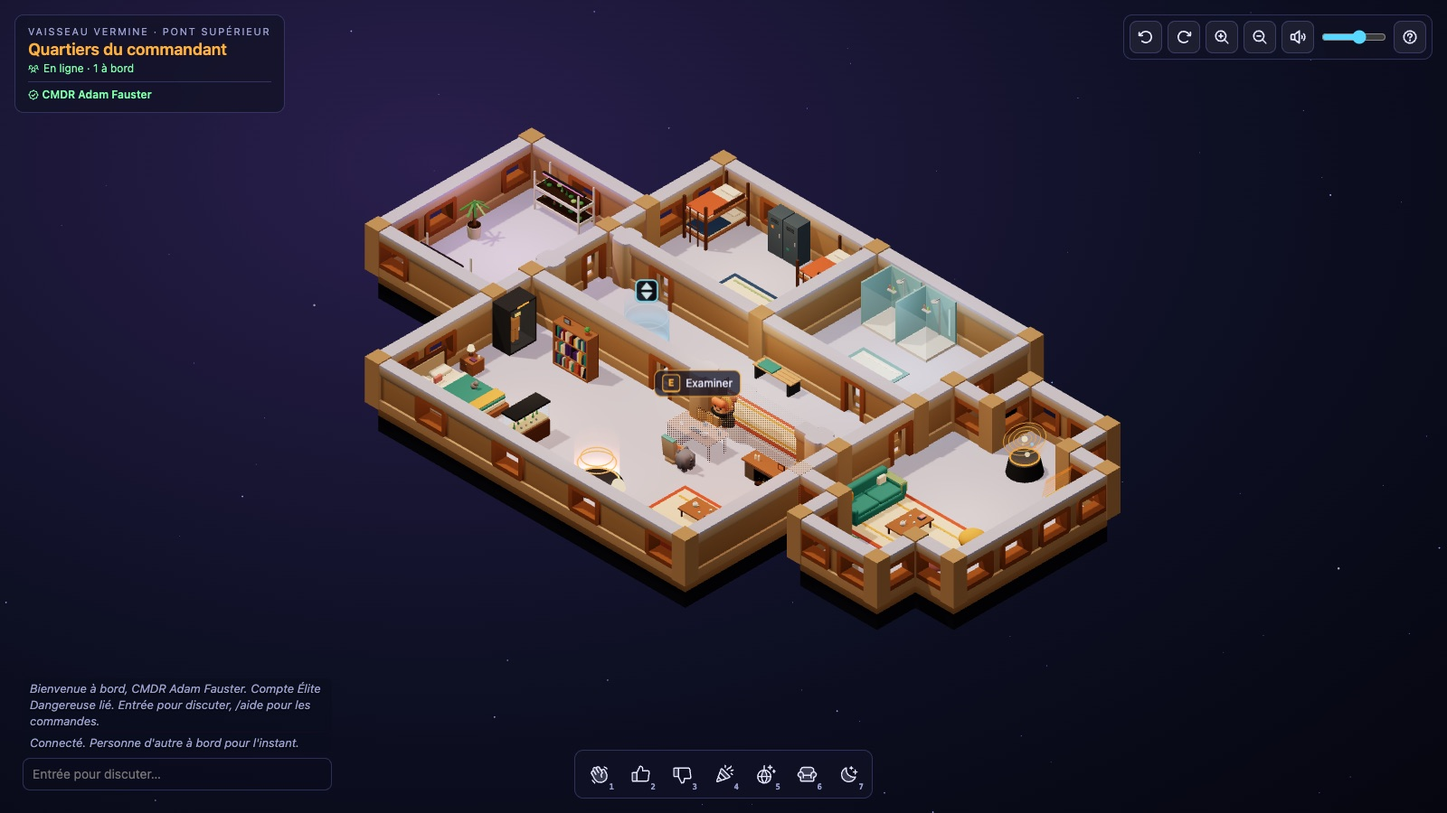
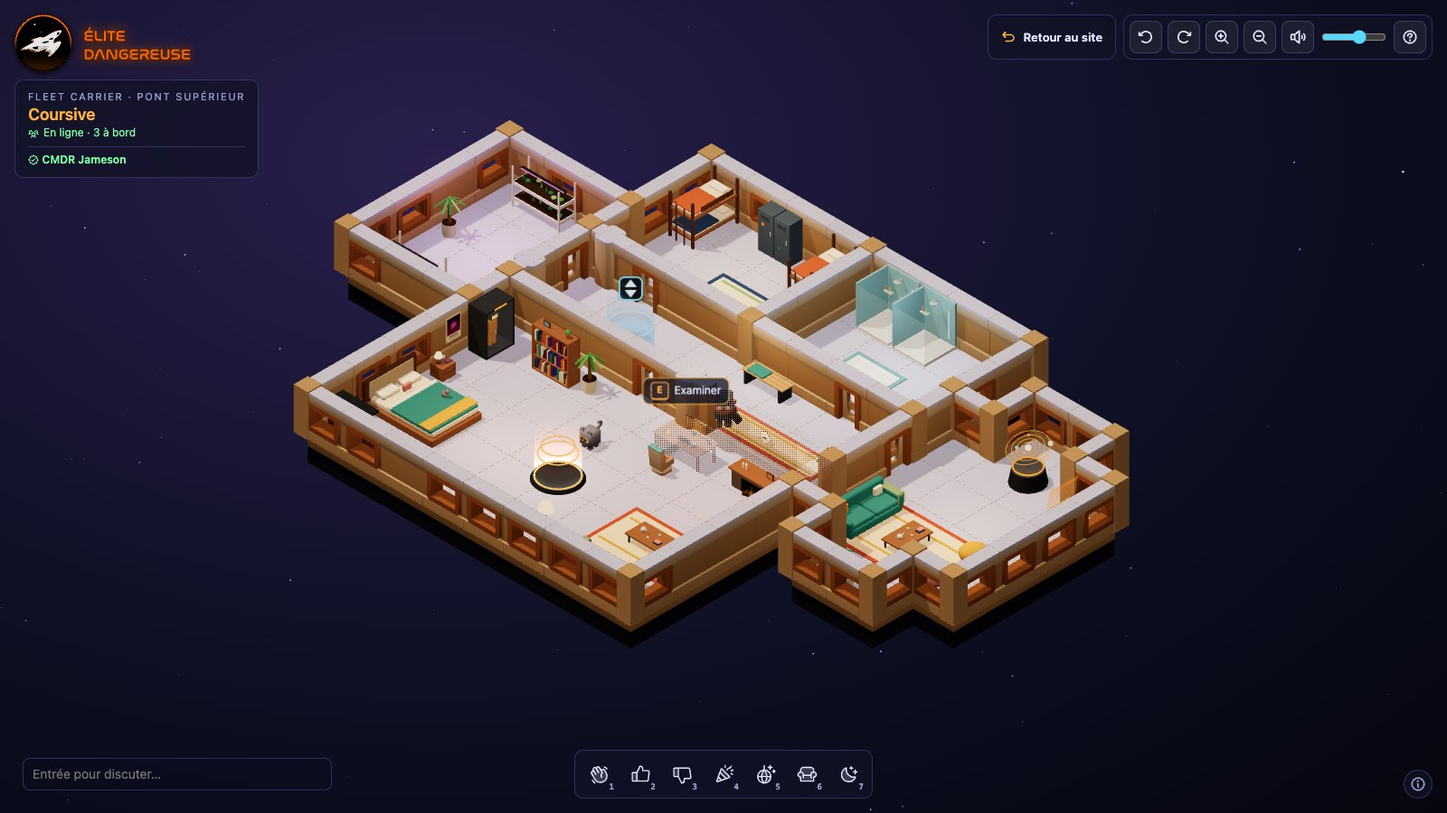
README : quartiers personnalisables, visites, endpoint des quartiers
Nouvelle section « Quartiers personnalisables » (instanciation, mode aménagement et ses
commandes, catalogue, règles de pose, enregistrement, invitations et visites), avec deux
captures ; les commandes, le fonctionnement des comptes (endpoint des quartiers, table à
jouer en prod, VITE_ED_CABIN_URL), les choix techniques, l'architecture et les limites
connues suivent. Les captures des quartiers et du pont supérieur sont refaites : la cabine
a grandi, et le HUD n'est plus celui du « Vaisseau Vermine ». L'aide du jeu cite /inviter.

diff --git a/index.html b/index.html
@@ -53,7 +53,7 @@
           <div><kbd>M</kbd> son · <kbd>H</kbd> cacher l'aide</div>
           <div>Holo-Me (apparence) : quartiers du commandant, pont supérieur</div>
           <div><kbd>B</kbd> aménager ses quartiers (CMDR connectés au site)</div>
-          <div class="muted">Chat : <code>/nom CMDR Pseudo</code>, <code>/perso</code> (au hasard), <code>/aide</code></div>
+          <div class="muted">Chat : <code>/nom CMDR Pseudo</code>, <code>/perso</code> (au hasard), <code>/inviter CMDR Nom</code>, <code>/aide</code></div>
         </div>
       </div>
 

diff --git a/README.md b/README.md
@@ -2,7 +2,7 @@
 
 <p align="center">
   <strong>Un vaisseau spatial isométrique et multijoueur, jouable directement dans le navigateur.</strong><br>
-  Trois ponts à explorer entre CMDR, un Holo-Me pour changer d'apparence, et Comète, le chat du bord.
+  Trois ponts à explorer entre CMDR, des quartiers à aménager et où recevoir, un Holo-Me pour changer d'apparence, et Comète, le chat du bord.
 </p>
 
 <p align="center">
@@ -24,6 +24,7 @@
 - [En bref](#en-bref)
 - [Le vaisseau](#le-vaisseau)
 - [Holo-Me (garde-robe)](#holo-me-garde-robe)
+- [Quartiers personnalisables](#quartiers-personnalisables)
 - [Mobilier fait main](#mobilier-fait-main)
 - [Lancer en local](#lancer-en-local)
 - [Commandes](#commandes)
@@ -42,6 +43,7 @@ Mini Interior est un POC : un vaisseau sur trois ponts, vu de dessus en isométr
 - **Multijoueur** : chaque onglet est un membre d'équipage, avec positions, emotes et chat en bulles, synchronisés par un petit relais socket.io.
 - **Comptes Élite Dangereuse** : un CMDR connecté à [elitedangereuse.fr](https://elitedangereuse.fr) arrive sous son nom, avec un badge « vérifié ».
 - **Holo-Me** : humain, combinaison spatiale, alien, robot ou créature, et chaque changement s'applique en direct.
+- **Quartiers personnalisables** : chaque joueur a sa propre instance des quartiers du commandant. Un CMDR connecté les aménage (70 meubles et objets : lits, plantes, affiches, lampe à lave, tasse de Hutton Orbital…) et y invite qui il veut.
 - **Des dizaines de meubles animés** : bornes d'arcade jouables, hologrammes, bras robotisé qui soude, aquarium, cheminée…
 - **Son spatialisé** : pas, réacteur, bips des consoles, mélodies d'arcade, ronronnements.
 
@@ -52,13 +54,13 @@ Mini Interior est un POC : un vaisseau sur trois ponts, vu de dessus en isométr
 
 ## Le vaisseau
 
-Trois ponts, trois ambiances. Chaque pont repeint à sa façon la même palette du kit (coque et mobilier, cf. `themes` dans `src/assets.ts`), et a son propre éclairage (ciel, soleil, lumières qui vacillent) et son propre bruit de pas. Le pont principal est de loin le plus grand (~210 tuiles). La cale et le pont supérieur sont deux fois plus petits (~90 et ~100 tuiles), autour de l'ascenseur.
+Trois ponts, trois ambiances. Chaque pont repeint à sa façon la même palette du kit (coque et mobilier, cf. `themes` dans `src/assets.ts`), et a son propre éclairage (ciel, soleil, lumières qui vacillent) et son propre bruit de pas. Le pont principal est de loin le plus grand (~210 tuiles). La cale et le pont supérieur sont deux fois plus petits (~90 et ~110 tuiles), autour de l'ascenseur.
 
 On se réveille dans ses quartiers, sur le pont supérieur, à deux pas du Holo-Me.
 
 | Pont | Ambiance | Pièces |
 |---|---|---|
-| **Pont supérieur** · les quartiers | *cozy* : crème et bois miel, tissus, plantes, lumière chaude, pas feutrés | **quartiers du commandant** (grand lit, cheminée holographique, canapé, aquarium, bureau, bibliothèque, casier à combinaisons, **Holo-Me**), cabines d'équipage (lits superposés), douches, serre hydroponique, salon panoramique (carte du système), coursive |
+| **Pont supérieur** · les quartiers | *cozy* : crème et bois miel, tissus, plantes, lumière chaude, pas feutrés | **quartiers du commandant**, [aménagés par chaque CMDR](#quartiers-personnalisables) (au départ : grand lit, cheminée holographique, canapé, aquarium, bureau, bibliothèque, casier à combinaisons, **Holo-Me**), cabines d'équipage (lits superposés), douches, serre hydroponique, salon panoramique (carte du système), coursive |
 | **Pont principal** | la station d'origine, mobilier aux couleurs d'Elite | poste de pilotage (siège et HOTAS, scanner, panneaux holographiques, carte galactique), salle des machines (centrale, réacteur FSD, tuyères), **infirmerie** (lits médicaux, scanner corporel, quarantaine), **salle de sport**, **salon d'arcade** (trois bornes jouables), mess, coursive |
 | **Cale** | *brute* : acier noirci et rouillé, jaune de chantier, lumière sodium, néons qui grésillent | **atelier** (établis, poste de soudure, établi d'ingénieur, ferraille), **baie de réparation** (SRV Scarab sur pont élévateur, bras robotisé qui soude, AFMU), **raffinerie** (fusion, tapis roulant de minerai, cristaux, drones collecteurs, laser minier), soute, palier de l'ascenseur |
 
@@ -120,6 +122,38 @@ Les robots ont des pas plus lourds. Pour ajouter une espèce ou un modèle, il s
 
 **Comète** vit dans les quartiers (pont supérieur), près de son panier au coin du feu. Il vient se frotter aux jambes du joueur, fait sa toilette, pique des sprints, miaule, ronronne quand on le caresse (`E`) et danse quand on danse à côté de lui. S'il se retrouve coincé contre un meuble, il renonce à son trajet et repart ailleurs.
 
+## Quartiers personnalisables
+
+<p align="center">
+  <img src="docs/images/amenagement.jpg" alt="Le mode aménagement : vue plongeante sur les quartiers, catalogue des objets à droite, une affiche en cours de pose sur un mur" width="100%">
+</p>
+
+Les quartiers du commandant (40 tuiles, là où se trouve le Holo-Me) sont **instanciés** : chaque joueur a les siens, meublés selon son aménagement, et n'y voit que ceux qui s'y trouvent avec lui. Hors des quartiers, rien ne change : on croise tout l'équipage dans la coursive.
+
+Un CMDR connecté au site les **aménage** : dans ses quartiers, `B` ou « Aménager » ouvre le mode aménagement. La caméra passe en vue plongeante sur la cabine, les murs côté caméra s'estompent, le catalogue s'ouvre à droite.
+
+| Action | Souris / clavier |
+|---|---|
+| Poser un objet | une carte du catalogue, puis un clic dans la cabine (ou glisser la carte jusqu'à sa place) ; `Maj`+clic pour en poser plusieurs |
+| Déplacer | glisser l'objet (ce qui est posé dessus le suit) ; les flèches l'ajustent d'un vingtième de tuile (`Maj` : d'un quart) |
+| Tourner | `R` / `Maj+R`, ou les boutons de la barre d'outils |
+| Changer de variante | la barre d'outils de l'objet choisi : tissu, palette, affiche, planète du globe… |
+| Retirer | `Suppr`, ou la corbeille (avec ce qui est posé dessus) |
+| Annuler, rétablir | `Ctrl+Z`, `Ctrl+Y` (ou `Ctrl+Maj+Z`) |
+| Terminer | `Échap`, « Terminer », ou `B` |
+
+Le catalogue compte **70 objets** en dix catégories : le mobilier du vaisseau (lits, canapés, bureau, aquarium, cheminée, bornes d'arcade, carte galactique…), et de quoi décorer : des affiches de voyage aux couleurs d'Elite (Colonia, Jameson Memorial, Hutton Orbital, Sagittarius A*, Beagle Point, les Gardiens…), des tableaux, une horloge qui donne l'heure de l'appareil, l'écran de GalNet, un néon « o7 », une étagère, des plantes (dont un spécimen exobiologique lumineux), et des petits objets à poser sur les meubles : tasse de Hutton Orbital, lampe à lave, globe, bougies, peluche de Comète, trophée Elite, capteur thargoïde, relique des Gardiens… La galerie `/gallery.html?catalogue` les montre tous (`&variantes` : toutes leurs variantes).
+
+Les **règles de pose** (`src/cabin/rules.ts`) : un objet tient dans la cabine, ou sur un pan de mur libre (ni porte, ni hublot, ni pilier) ; il ne traverse pas un autre objet, mais un tapis passe sous les meubles, un petit objet se pose sur le dessus d'un meuble (bureau, table basse, commode, étagère…), et une affiche peut dépasser un peu derrière le dossier d'un canapé. Devant la porte, le passage reste libre, et le Holo-Me reste accessible depuis la porte : il se déplace, mais ne se retire pas. 64 objets au plus. L'objet en main se soulève, vert s'il peut aller là, rouge sinon avec la raison ; poussé contre un mur, il glisse le long ; tout près d'un mur, il s'y colle.
+
+L'aménagement est **enregistré sur le site** (cf. [Comptes Élite Dangereuse](#comptes-élite-dangereuse)) un peu après chaque changement, et suit le CMDR d'un appareil à l'autre. Un invité du site a les quartiers d'origine : il ne les aménage pas, mais peut être invité.
+
+<p align="center">
+  <img src="docs/images/visite.jpg" alt="Un CMDR en visite dans les quartiers aménagés d'un autre : chacun parle dans une bulle, la barre indique « Quartiers de CMDR Adam Fauster »" width="100%">
+</p>
+
+Un CMDR **invite** un membre d'équipage connecté : « Inviter » dans la barre de ses quartiers (la liste de l'équipage), ou `/inviter CMDR Nom`. L'invitation vaut une minute ; si l'invité la rejoint, où qu'il soit à bord, il est téléporté devant la porte, dans des quartiers meublés comme chez son hôte, et voit chacun de ses changements en direct. Il rentre chez lui en ressortant par la porte (ou « Rentrer chez moi »), quand l'hôte le raccompagne (depuis la liste de l'équipage), ou quand l'hôte quitte le vaisseau.
+
 ## Mobilier fait main
 
 <p align="center">
@@ -127,7 +161,7 @@ Les robots ont des pas plus lourds. Pour ajouter une espèce ou un modèle, il s
   <br><em>La galerie de debug <code>/gallery.html?mobilier</code> : tous les meubles construits à la main, animés.</em>
 </p>
 
-Les meubles qui ne sont pas dans le kit sont construits en primitives Three.js dans `src/furniture/`, rangés par zone : `elite.ts` (clins d'œil à Elite Dangerous), `workshop.ts` (la cale), `leisure.ts` (infirmerie, sport, arcade), `cozy.ts` (les quartiers). On les place dans `src/levels.ts` comme les modèles du kit : `{ model: 'fireplace', x, z, rot }`. Le nom du modèle est vérifié à la compilation.
+Les meubles qui ne sont pas dans le kit sont construits en primitives Three.js dans `src/furniture/`, rangés par zone : `elite.ts` (clins d'œil à Elite Dangerous, et le Holo-Me), `workshop.ts` (la cale), `leisure.ts` (infirmerie, sport, arcade), `cozy.ts` (les quartiers), `decor.ts` (la décoration des cabines : affiches, cadres, plantes, petits objets). On les place dans `src/levels.ts` comme les modèles du kit : `{ model: 'fireplace', x, z, rot }`, et dans les quartiers depuis le catalogue du mode aménagement (`src/cabin/catalog.ts`, qui dit comment chacun se pose et ce qu'on peut en changer). Le nom du modèle est vérifié à la compilation.
 
 - `label` passe un texte libre au meuble : le titre d'un panneau holographique (`'Titre|ligne|ligne'`), le jeu d'une borne (`elite`, `invaders`, `asteroids`), la couleur d'un tissu (`teal`, `terracotta`, `mustard`…), la palette et la taille d'un tapis (`warm:2.2x1.5`).
 - `interact` accepte une liste de phrases : une au hasard à chaque interaction. `action` change le verbe de l'invite (« Jouer », « Se doucher », « Frapper »…).
@@ -144,7 +178,7 @@ Prérequis : Node 20 ou plus.
 ```bash
 npm install
 npm run dev        # http://localhost:5173 — jeu + relais multijoueur
-npm test           # tests du relais (identité, origine, rediffusion)
+npm test           # tests du relais (identité, origine, rediffusion, quartiers)
 ```
 
 Pour tester le multijoueur, ouvre deux onglets (ou un onglet et un autre navigateur). Chaque onglet est un membre d'équipage.
@@ -170,8 +204,10 @@ Une page de debug, `/gallery.html`, affiche chaque modèle du kit avec son nom e
 | Changer de pont | interagir avec l'ascenseur (la plateforme cyan surmontée d'un panneau ▲▼, dans la coursive ou sur le palier), puis `↑` `↓` pour choisir l'étage et `Entrée` pour y aller, ou un clic ; `E`, `Échap` ou un clic en dehors pour fermer |
 | Emotes | `1`…`7` ou la barre en bas : salut, oui, non, joie, danse, assis, dodo |
 | Chat | `Entrée`, puis `Entrée` pour envoyer, `Échap` pour annuler |
-| Commandes du chat | `/nom CMDR Pseudo` (invités), `/perso` (apparence au hasard), `/danse`…, `/aide` |
+| Commandes du chat | `/nom CMDR Pseudo` (invités), `/perso` (apparence au hasard), `/inviter CMDR Nom`, `/danse`…, `/aide` |
 | Changer d'apparence | le **Holo-Me** des quartiers du commandant (pont supérieur) |
+| Aménager ses quartiers | `B`, ou « Aménager » dans la barre des quartiers (CMDR connectés au site, cf. [Quartiers personnalisables](#quartiers-personnalisables)) |
+| Inviter dans ses quartiers | « Inviter » dans la barre des quartiers, ou `/inviter CMDR Nom` ; rejoindre ou décliner une invitation reçue en haut à gauche |
 | Pivoter la caméra | `R` / `Maj+R`, ou les boutons en haut à droite (d'un quart de tour ; ramène aussi la vue isométrique après la caméra libre) |
 | Caméra libre | maintenir le **clic droit** ou le **clic molette** et glisser : horizontalement on tourne autour du personnage, verticalement on incline la vue (de rasante à presque de dessus) ; avec `Maj`, on fait glisser la vue, qui revient sur le personnage dès qu'il bouge |
 | Zoom | molette, ou les boutons loupe |
@@ -191,11 +227,15 @@ Le jeu est servi sur le domaine du site (`https://elitedangereuse.fr/outils/mini
 
 Le client appelle aussi l'endpoint au chargement, pour afficher son nom avant d'être en ligne (et en solo).
 
+Les **quartiers aménagés** passent par un second endpoint, `outils/mini-shipinteriors-cabin.php`, que seul le client appelle, avec le même cookie : `GET` rend l'aménagement du CMDR (`null` s'il n'a jamais aménagé ses quartiers), `POST` l'enregistre (table `mini_shipinteriors_cabin`). L'écriture est réservée aux CMDR, et doit venir du site : son en-tête `Origin` est vérifié, une page tierce ne réaménage pas une cabine. Le site ne vérifie que la forme de l'aménagement (64 objets, identifiants courts, nombres finis dans le vaisseau) : le catalogue vit dans le jeu, qui écarte à la lecture ce qu'il ne connaît pas. Le relais n'y touche pas : c'est le client d'un CMDR vérifié qui lui envoie son aménagement, pour le montrer à ses invités. Si le site ne répond pas, l'aménagement est gardé dans le navigateur.
+
+Les demandes de compte et de quartiers partent dès le chargement de la page, pendant celui des modèles, et on ne les attend au plus que 3 s une fois les modèles chargés.
+
 Le cookie du site n'est pas `SameSite` : le relais n'accepte que les connexions de la même origine (en-tête `Origin` comparé au `Host`). Sinon, une page d'un autre site pourrait ouvrir une socket avec le cookie d'un visiteur et parler en son nom.
 
 ### Mise en production
 
-Le jeu est un sous-module du repo `elitedangereuselight`, dans `outils/mini-shipinteriors`. Ce repo contient l'endpoint, la conf nginx (`scripts/nginx/mini-shipinteriors-*.conf`), et ses scripts de déploiement envoient le jeu construit et le relais (cf. son README).
+Le jeu est un sous-module du repo `elitedangereuselight`, dans `outils/mini-shipinteriors`. Ce repo contient les endpoints, la table des quartiers (`docker/tables/mini_shipinteriors.sql`, à jouer une fois en prod), la conf nginx (`scripts/nginx/mini-shipinteriors-*.conf`), et ses scripts de déploiement envoient le jeu construit et le relais (cf. son README).
 
 `dependencies` ne contient que ce que le relais charge (socket.io) : le client (three, icônes, socket.io-client) est intégré au build par Vite, d'où `devDependencies`.
 
@@ -208,15 +248,15 @@ Le relais : `npm ci --omit=dev && npm start`, avec ces variables :
 | `LOG_LABEL` | étiquette ajoutée à chaque ligne de log, horodatée (ex. `prod`, `preprod`). Les erreurs (site injoignable, plantage) vont sur la sortie d'erreur, le reste (arrivées, départs) sur la sortie standard |
 | `WS_PATH` | chemin de la socket (défaut `/ws/mini-shipinteriors`). S'il change, rebâtir le client avec `VITE_WS_PATH` et adapter nginx |
 
-Au build : `VITE_WS_PATH` (chemin de la socket) et `VITE_ED_CMDR_URL` (endpoint, défaut `/outils/mini-shipinteriors-cmdr.php`).
+Au build : `VITE_WS_PATH` (chemin de la socket), `VITE_ED_CMDR_URL` (endpoint du compte, défaut `/outils/mini-shipinteriors-cmdr.php`) et `VITE_ED_CABIN_URL` (endpoint des quartiers, défaut `/outils/mini-shipinteriors-cabin.php`).
 
 Sans `ED_CMDR_URL`, ou si le site ne répond pas, le jeu fonctionne quand même : tout le monde est invité.
 
 ### En local
 
-Avec le site en local (Docker, `http://localhost:8080`), `npm run dev` suffit : les cookies ne dépendent pas du port, et le site local connecte d'office son CMDR de dev. Le relais de dev interroge `http://localhost:8080/outils/mini-shipinteriors-cmdr.php`, et le serveur de dev y renvoie aussi la requête du client (variable `ED_SITE_URL` pour une autre adresse).
+Avec le site en local (Docker, `http://localhost:8080`), `npm run dev` suffit : les cookies ne dépendent pas du port, et le site local connecte d'office son CMDR de dev. Le relais de dev interroge `http://localhost:8080/outils/mini-shipinteriors-cmdr.php`, et le serveur de dev y renvoie aussi les requêtes du client, quartiers compris (variable `ED_SITE_URL` pour une autre adresse). La table des quartiers se crée à la main dans le conteneur : `docker exec -i elitedangereuse mysql -u root -proot lavermv500 < docker/tables/mini_shipinteriors.sql`.
 
-Sans le site, `http://localhost:5173/?cmdr=Adam%20Fauster` simule un CMDR connecté (serveur de dev uniquement).
+Sans le site, `http://localhost:5173/?cmdr=Adam%20Fauster` simule un CMDR connecté (serveur de dev uniquement) ; ses quartiers sont alors gardés dans le navigateur. Pour essayer les visites, ouvrir deux onglets sous deux noms différents.
 
 ## Sons
 
@@ -234,28 +274,30 @@ Les bips, les mélodies d'arcade, les étincelles, le miaulement et le ronronnem
 ## Choix techniques
 
 - **Three.js + TypeScript + Vite.** Le rendu est en « 2D isométrique » : une caméra **orthographique** placée au vrai angle isométrique (35,26° d'élévation, 45° d'azimut) filme des modèles 3D low-poly. On garde l'aspect iso 2D sans avoir à gérer l'ordre d'affichage des sprites, avec des animations dans toutes les directions, des ombres, de l'éclairage et la rotation de la caméra par quarts de tour.
-- **Performances.** Les packs Kenney sont entièrement mats, donc ils sont rendus en **Lambert** au lieu du PBR : même aspect, bien moins de calcul par pixel. Toute la géométrie immobile d'un pont (sols, coque, murs, poteaux, meubles) est fusionnée en quelques maillages : on fait **~105 appels de dessin par image sur le pont principal (ombres comprises), au lieu de ~420**. Les murs à rendre transparents devant le joueur restent individualisables grâce à un index par sommet et une petite texture de fondu. Les étoiles sont animées entièrement dans le GPU. Une réserve de 8 lumières ponctuelles, de taille fixe, évite toute recompilation de shader, et tous les shaders sont compilés avant la première image. La densité de pixels démarre à 1,5. Elle baisse si l'image passe sous ~50 i/s, et remonte jusqu'à 2 s'il reste de la marge. Le survol à la souris est traité une fois par image, et la boucle n'alloue presque plus rien (moins de pauses du ramasse-miettes).
+- **Performances.** Les packs Kenney sont entièrement mats, donc ils sont rendus en **Lambert** au lieu du PBR : même aspect, bien moins de calcul par pixel. Toute la géométrie immobile d'un pont (sols, coque, murs, poteaux, meubles) est fusionnée en quelques maillages : on fait **~105 appels de dessin par image sur le pont principal (ombres comprises), au lieu de ~420**. Les meubles des quartiers sont fusionnés à part, et refusionnés à chaque changement d'aménagement (un meuble déplacé n'est pas reconstruit) : ~6 appels de dessin de plus sur le pont supérieur. Les murs à rendre transparents devant le joueur restent individualisables grâce à un index par sommet et une petite texture de fondu. Les étoiles sont animées entièrement dans le GPU. Une réserve de 8 lumières ponctuelles, de taille fixe, évite toute recompilation de shader, et tous les shaders sont compilés avant la première image. La densité de pixels démarre à 1,5. Elle baisse si l'image passe sous ~50 i/s, et remonte jusqu'à 2 s'il reste de la marge. Le survol à la souris est traité une fois par image, et la boucle n'alloue presque plus rien (moins de pauses du ramasse-miettes).
 - **Anti-clignotement.** Le fondu des murs est **tramé** (matrice de Bayer) au lieu d'être en vraie transparence. Il n'y a donc plus de tri d'objets transparents ni de bascule opaque/transparent. Les **poteaux d'angle** sont un peu plus larges et plus hauts que les murs : les dessus de murs qui se chevauchaient au même niveau causaient un z-fighting en dents de scie. L'ombre du soleil est fixe et couvre tout le vaisseau, elle ne « nage » plus quand la caméra bouge. Enfin, les faces confondues (panneaux de portes, dalles au sol) ont été décalées.
-- **Multijoueur.** Un relais socket.io minimal (`server/relay.js`) reçoit positions, messages et emotes, les valide et les rediffuse. socket.io apporte la reconnexion automatique et le repli en long polling quand le WebSocket ne passe pas. Le relais est branché sur le serveur de dev de Vite et sur `server/index.js` en production. Ce n'est pas un serveur qui fait autorité : pour un POC, chaque client fait confiance aux autres. Comète (l'animal) est simulé séparément sur chaque client.
+- **Multijoueur.** Un relais socket.io minimal (`server/relay.js`) reçoit positions, messages et emotes, les valide et les rediffuse. socket.io apporte la reconnexion automatique et le repli en long polling quand le WebSocket ne passe pas. Le relais est branché sur le serveur de dev de Vite et sur `server/index.js` en production. Ce n'est pas un serveur qui fait autorité : pour un POC, chaque client fait confiance aux autres. Comète (l'animal) est simulé séparément sur chaque client. Pour les quartiers, en revanche, le relais tranche : il garde l'aménagement de chaque CMDR vérifié (forme vérifiée par `server/cabin.js`), n'ouvre des quartiers que sur invitation, transmet leurs changements aux seuls visiteurs, et renvoie ceux-ci chez eux quand leur hôte part. Chaque joueur porte l'instance des quartiers où il se trouve (`cabin`, l'id de son hôte) ; chaque client en déduit qui il voit.
+- **Chargement à la demande.** Le mode aménagement (éditeur, règles de pose, vignettes du catalogue, ~25 ko) n'est téléchargé qu'à sa première ouverture. Les vignettes sont rendues à la demande dans un petit contexte WebGL hors écran, libéré une fois la file vidée.
 
 ## Architecture
 
 | Fichier | Rôle |
 |---|---|
-| `src/levels.ts` | **Les trois ponts** : plans ASCII (une lettre par pièce, `+` pour une porte), noms des pièces, ambiance (peinture, éclairage, pas), meubles, lumières, position de l'ascenseur. C'est ici qu'on modifie le vaisseau. |
+| `src/levels.ts` | **Les trois ponts** : plans ASCII (une lettre par pièce, `+` pour une porte), noms des pièces, ambiance (peinture, éclairage, pas), meubles, lumières, position de l'ascenseur, pièce des quartiers personnalisables. C'est ici qu'on modifie le vaisseau. |
 | `src/map.ts` | Lecture d'un plan : pièces, portes, arêtes (mur / porte / ouvert). |
-| `src/deck.ts` | Construit un pont : sols, murs sur les arêtes, hublots, poteaux, portes automatiques, meubles, ascenseur, réacteur, tuyères. Fusion de géométrie et fondu tramé. |
+| `src/deck.ts` · `src/merge.ts` | Construit un pont : sols, murs sur les arêtes, hublots, poteaux, portes automatiques, meubles, ascenseur, réacteur, tuyères. Fusion de géométrie et fondu tramé (`merge.ts`, partagé avec les quartiers). |
+| `src/cabin/` | **Quartiers personnalisables** : catalogue des objets (`catalog.ts`), aménagement et sa normalisation (`layout.ts`), construction et fusion dans le pont (`view.ts`), règles de pose (`rules.ts`), mode aménagement (`editor.ts`), vignettes (`thumbs.ts`), barre des quartiers et invitations (`hud.ts`), enregistrement sur le site (`storage.ts`). |
 | `src/fade.ts` | Shaders de transparence tramée (par objet ou indexée pour la géométrie fusionnée). |
 | `src/avatar.ts` | Personnage animé : locomotion, emotes. Partagé par le joueur local et les joueurs distants. |
 | `src/looks.ts` | Catalogue des apparences (espèces, sexe, modèles, teintes, combinaisons) et fabrication des modèles correspondants (casques, sacs dorsaux). |
-| `src/furniture/` | Mobilier fait main, par zone (`elite`, `workshop`, `leisure`, `cozy`), et sa boîte à outils commune (`kit.ts` : fusion, instanciation, hologrammes, écrans animés). |
+| `src/furniture/` | Mobilier fait main, par zone (`elite`, `workshop`, `leisure`, `cozy`, `decor`), et sa boîte à outils commune (`kit.ts` : fusion, instanciation, hologrammes, écrans animés). |
 | `src/recolor.ts` | Recoloration de texture pixel par pixel (aliens, combinaisons, mobilier repeint). |
 | `src/icons.ts` | Icônes de l'interface (Phosphor Icons). |
 | `src/player.ts` | Joueur local : clavier, suivi de chemin lissé, collisions, rythme des pas. |
 | `src/remote.ts` | Joueurs distants : interpolation, animations et emotes rejouées. |
 | `src/cat.ts` | Comète, le chat (petite machine à états). |
 | `src/audio.ts` | Sons spatialisés ; bips, mélodies d'arcade, étincelles, miaulement et ronronnement synthétisés. |
-| `src/net.ts` · `server/` | Client et relais multijoueur (socket.io), reconnaissance du CMDR par le site (`server/cmdr.js`), serveur de production, tests (`server/relay.test.js`). |
+| `src/net.ts` · `server/` | Client et relais multijoueur (socket.io), reconnaissance du CMDR par le site (`server/cmdr.js`), aménagements des quartiers (`server/cabin.js`), serveur de production, tests (`server/relay.test.js`). |
 | `src/cmdr.ts` | Identité : CMDR connecté au site, noms d'invités tirés de la SF. |
 | `src/ui.ts` | Bulles au-dessus des têtes, chat, panneaux d'ascenseur et du Holo-Me, dialogues. |
 | `src/pathfinding.ts` · `src/physics.ts` | A* 8 directions, dont chaque passage entre deux tuiles est validé contre les meubles (plus de chemin à travers une chaise) ; collisions cercle contre rectangles. |
@@ -278,8 +320,10 @@ Les icônes de l'interface viennent de [Phosphor Icons](https://phosphoricons.co
 
 ## Limites connues / pistes
 
-- Le relais ne fait pas autorité (pas de validation des déplacements), et Comète est simulé séparément sur chaque client (chacun voit « son » chat).
+- Le relais ne fait pas autorité (pas de validation des déplacements), et Comète est simulé séparément sur chaque client (chacun voit « son » chat, qui le suit aussi en visite).
+- Deux onglets d'un même CMDR aménagent les mêmes quartiers : le dernier enregistrement l'emporte, et l'autre onglet ne voit le changement qu'au rechargement.
+- Une visite ne survit pas à une reconnexion au relais : le visiteur rentre chez lui.
 - Les sons sont en Ogg Vorbis : c'est parfait sur Chrome et Firefox, mais un ancien Safari peut rester muet. Une conversion en `.m4a` réglerait ça.
-- Pistes : pseudo et choix du personnage dans un écran d'accueil, PNJ d'équipage avec routines, escaliers du kit en plus de l'ascenseur, plans édités dans [Tiled](https://www.mapeditor.org/).
+- Pistes : pseudo et choix du personnage dans un écran d'accueil, PNJ d'équipage avec routines, escaliers du kit en plus de l'ascenseur, plans édités dans [Tiled](https://www.mapeditor.org/), s'asseoir sur les canapés et fauteuils des quartiers, objets gagnés en jeu à ajouter au catalogue.
 
 <p align="center"><sub>o7, CMDR.</sub></p>
